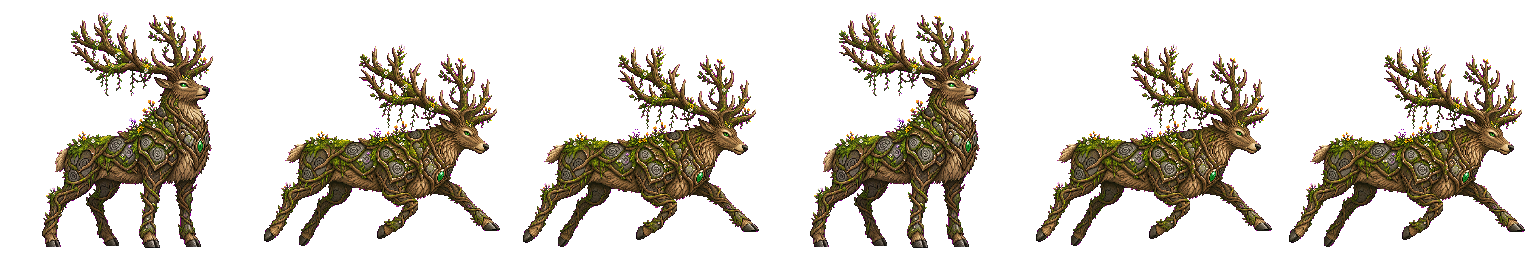
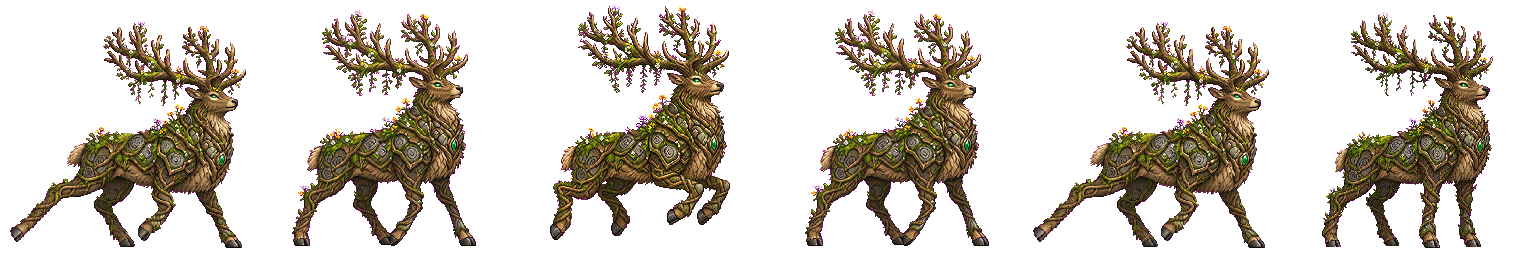
fix(demo64): rebuild Deer King walk cycle

diff --git a/public/demo64/game-original.js b/public/demo64/game-original.js
@@ -172,7 +172,7 @@
     this.load.spritesheet('meadow-turtle-attack', A + 'creatures/campo/meadow_turtle/attack.png?v=1', { frameWidth: 192, frameHeight: 192 });
     this.load.image('deer-king-idle', A + 'creatures/campo/deer_king/idle.png?v=1');
     this.load.image('deer-king-enraged', A + 'creatures/campo/deer_king/enraged.png?v=1');
-    this.load.spritesheet('deer-king-walk', A + 'creatures/campo/deer_king/walk.png?v=1', { frameWidth: 256, frameHeight: 256 });
+    this.load.spritesheet('deer-king-walk', A + 'creatures/campo/deer_king/walk.png?v=2', { frameWidth: 256, frameHeight: 256 });
     this.load.spritesheet('deer-king-charge', A + 'creatures/campo/deer_king/charge.png?v=1', { frameWidth: 256, frameHeight: 256 });
     for (const n of ['yeti', 'golem', 'wolf']) { // IA PixelLab: 92px, idle 1col / walk 6col, linhas n/w/s/e
       this.load.spritesheet('ai' + n + '-idle', A + 'creatures/neve/' + n + '/idle.png', { frameWidth: 92, frameHeight: 92 });

diff --git a/public/demo64/game.js b/public/demo64/game.js
@@ -1,7 +1,7 @@
 /* GameRPG loader */
 (function () {
   const script = document.createElement('script');
-  script.src = './game-original.js?v=deer-king-v1';
+  script.src = './game-original.js?v=deer-king-v2';
   script.onerror = () => console.error('[GameRPG] Falha ao carregar o jogo principal.');
   document.head.appendChild(script);
 })();

diff --git a/public/demo64/index.html b/public/demo64/index.html
@@ -557,6 +557,6 @@ addEventListener('keydown', e => {
   sync();
 })();
 </script>
-<script src="game.js?v=deer-king-v1"></script>
+<script src="game.js?v=deer-king-v2"></script>
 </body>
 </html>
